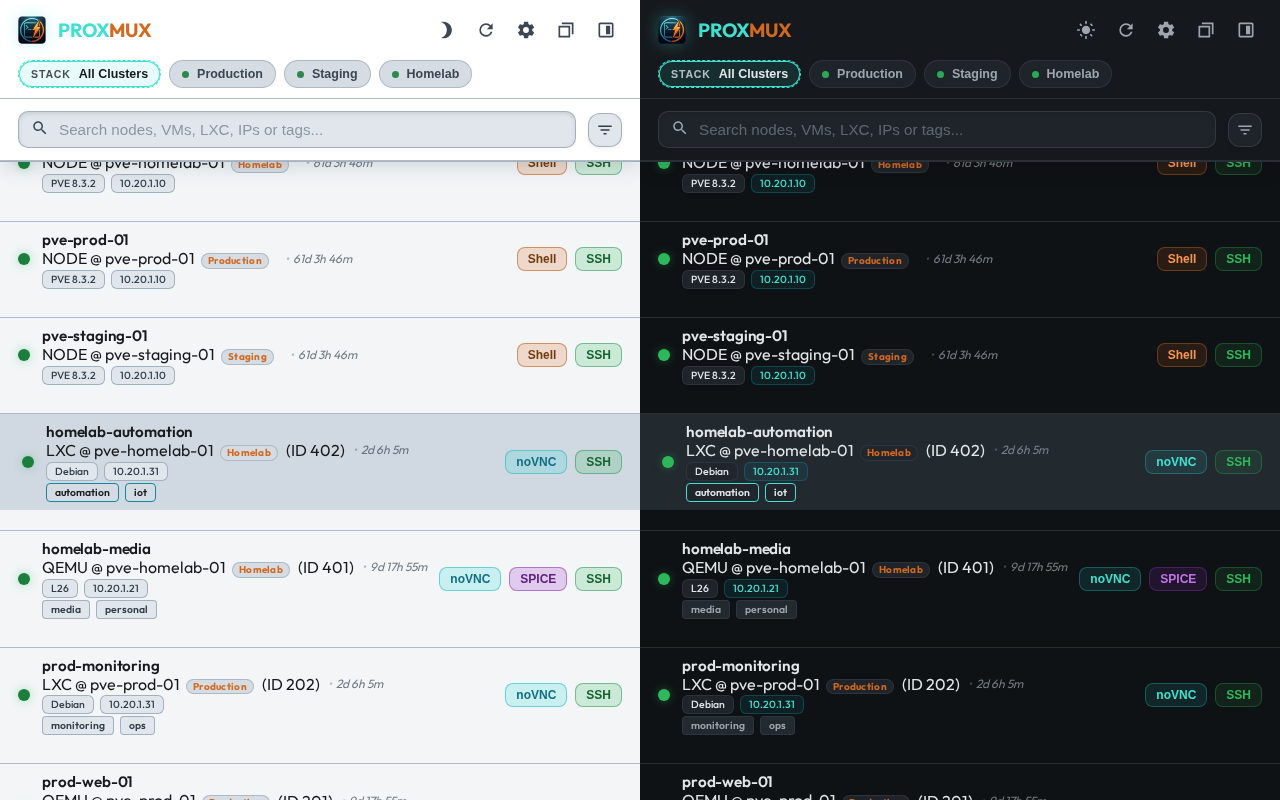
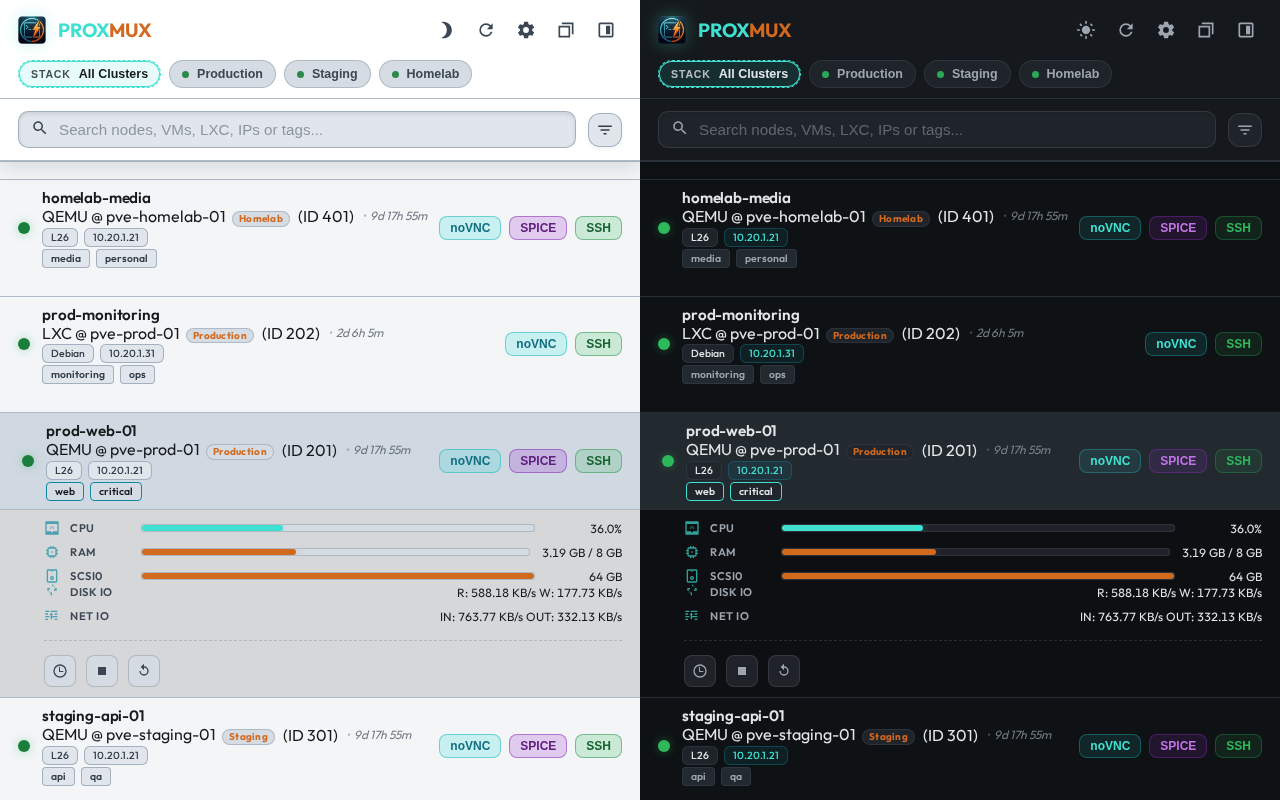
fix: make expanded screenshot scene deterministic (#60)
Ensure the resource-expanded screenshot always captures a visibly expanded VM drawer, add regression coverage for drawer visibility, and set the expanded screenshot as the README primary image.

diff --git a/tests/e2e.spec.js b/tests/e2e.spec.js
@@ -249,6 +249,133 @@ test.describe('PROXMUX Popup (Mock Environment)', () => {
     await expect(page.locator('#cluster-tabs')).toBeVisible();
   });
 
+  test('should expand production VM row and show details drawer', async ({ page }) => {
+    await page.addInitScript(() => {
+      const storage = {
+        theme: 'dark',
+        displaySettings: { uptime: true, ip: true, os: true, vmid: true, tags: true },
+        scriptsPanelCollapsed: true,
+        activeClusterTabId: '__all__',
+        activeClusterId: 'production',
+        clusters: {
+          production: {
+            id: 'production',
+            name: 'Production',
+            proxmoxUrl: 'https://pve-prod-01.lan:8006',
+            apiUser: 'api-admin@pve',
+            apiTokenId: 'full-access',
+            apiSecret: 'prod-secret',
+            apiToken: 'api-admin@pve!full-access=prod-secret',
+            failoverUrls: [],
+            isEnabled: true
+          }
+        },
+        communityScriptsCatalogCacheV1: {
+          source: 'fixture',
+          updatedAt: Date.now(),
+          schemaVersion: 2,
+          scripts: []
+        }
+      };
+
+      const resolveGet = (keys) => {
+        if (!keys) return { ...storage };
+        if (Array.isArray(keys)) return keys.reduce((acc, key) => ({ ...acc, [key]: storage[key] }), {});
+        if (typeof keys === 'string') return { [keys]: storage[keys] };
+        return Object.keys(keys).reduce((acc, key) => ({ ...acc, [key]: storage[key] ?? keys[key] }), {});
+      };
+
+      const chromeMock = {
+        runtime: { lastError: null, getURL: (relative = '') => `${window.location.origin}/${relative.replace(/^\/+/, '')}` },
+        i18n: { getMessage: () => '' },
+        storage: {
+          local: {
+            get: async (keys) => resolveGet(keys),
+            set: async (values) => Object.assign(storage, values || {}),
+            remove: async (keys) => {
+              const list = Array.isArray(keys) ? keys : [keys];
+              list.forEach((key) => delete storage[key]);
+            }
+          }
+        },
+        permissions: {
+          contains: (_permissions, cb) => cb(true),
+          request: (_permissions, cb) => cb(true)
+        },
+        windows: {
+          getCurrent: async () => ({ id: 1, type: 'normal' }),
+          get: async (id) => ({ id, type: 'normal', tabs: [] }),
+          update: async (id, info) => ({ id, ...info }),
+          create: async () => ({ id: 2, type: 'popup' })
+        },
+        sidePanel: { open: async () => {} },
+        tabs: {
+          create: async () => ({ id: 10 }),
+          update: async () => ({ id: 10 }),
+          query: async () => [],
+          get: async () => ({ id: 10, status: 'complete' }),
+          onUpdated: { addListener: () => {}, removeListener: () => {} }
+        },
+        scripting: { executeScript: async () => [{ result: true }] },
+        downloads: {
+          download: (_options, cb) => cb?.(1),
+          open: async () => {},
+          onChanged: { addListener: () => {}, removeListener: () => {} }
+        },
+        cookies: { get: async () => null }
+      };
+
+      const realFetch = window.fetch.bind(window);
+      window.fetch = async (input, init = {}) => {
+        const requestUrl = typeof input === 'string' ? input : input?.url;
+        if (!requestUrl) return realFetch(input, init);
+        if (requestUrl.includes('/api2/json/cluster/resources')) {
+          return new Response(JSON.stringify({
+            data: [
+              { type: 'node', node: 'pve-prod-01', status: 'online', cpu: 0.12, mem: 1, maxmem: 2, disk: 1, maxdisk: 2 },
+              {
+                type: 'qemu',
+                vmid: 201,
+                name: 'prod-web-01',
+                node: 'pve-prod-01',
+                status: 'running',
+                uptime: 842100,
+                cpu: 0.2,
+                mem: 1,
+                maxmem: 2,
+                disk: 1,
+                maxdisk: 2
+              }
+            ]
+          }), { status: 200, headers: { 'content-type': 'application/json' } });
+        }
+        if (requestUrl.includes('/api2/json/')) {
+          return new Response(JSON.stringify({ data: {} }), { status: 200, headers: { 'content-type': 'application/json' } });
+        }
+        if (requestUrl.includes('api.github.com/repos/community-scripts/ProxmoxVE/git/trees/main')) {
+          return new Response(JSON.stringify({ tree: [] }), { status: 200, headers: { 'content-type': 'application/json' } });
+        }
+        return realFetch(input, init);
+      };
+
+      window.chrome = chromeMock;
+      globalThis.chrome = chromeMock;
+    });
+
+    await page.goto(`${staticBaseUrl}/popup/popup.html`);
+
+    const targetItem = page.locator('[data-id="vm-production-201"]');
+    const targetMain = targetItem.locator('.item-main');
+    const detailsDrawer = targetItem.locator('.details-drawer');
+
+    await expect(targetMain).toBeVisible();
+    await targetMain.click();
+    await expect(targetItem).toHaveClass(/expanded/);
+    await expect(detailsDrawer).toBeVisible();
+    const drawerHeight = await detailsDrawer.evaluate((el) => el.getBoundingClientRect().height);
+    expect(drawerHeight).toBeGreaterThan(24);
+  });
+
   test('should show resource items from mock data', async ({ page }) => {
     const items = page.locator('.resource-item');
     const count = await items.count();

diff --git a/store/generate_screenshots_ci.js b/store/generate_screenshots_ci.js
@@ -537,12 +537,32 @@ async function applySceneState(page, sceneId) {
   }
 
   if (sceneId === 'resource_expanded') {
-    await page.waitForSelector('[data-id="vm-production-201"] .item-main');
-    await page.click('[data-id="vm-production-201"] .item-main');
-    await page.waitForSelector('[data-id="vm-production-201"].expanded');
+    const targetItemSelector = '[data-id="vm-production-201"]';
+    const targetMainSelector = `${targetItemSelector} .item-main`;
+    await page.waitForSelector(targetMainSelector, { state: 'visible' });
+    await page.waitForFunction((selector) => {
+      const list = document.getElementById('resource-list');
+      const items = Array.from((list || document).querySelectorAll('.resource-item'));
+      return items.length >= 3 && items.some((item) => item.matches(selector));
+    }, targetItemSelector);
+    await page.evaluate((selector) => {
+      const target = document.querySelector(selector);
+      target?.scrollIntoView({ block: 'center', inline: 'nearest' });
+    }, targetItemSelector);
+    await page.click(targetMainSelector);
+    await page.waitForSelector(`${targetItemSelector}.expanded`);
+    await page.waitForFunction((selector) => {
+      const item = document.querySelector(selector);
+      if (!item || !item.classList.contains('expanded')) return false;
+      const drawer = item.querySelector('.details-drawer');
+      if (!drawer) return false;
+      const styles = window.getComputedStyle(drawer);
+      const rect = drawer.getBoundingClientRect();
+      return styles.visibility !== 'hidden' && Number(styles.opacity) > 0.95 && rect.height > 24;
+    }, targetItemSelector);
     await page.evaluate(() => {
       const list = document.getElementById('main-view-content');
-      if (list) list.scrollTop = 36;
+      if (list) list.scrollTop = Math.max(list.scrollTop - 20, 0);
       const scripts = document.querySelector('.scripts-panel');
       scripts?.classList.add('hidden');
     });

diff --git a/README.md b/README.md
@@ -29,12 +29,12 @@ A dedicated Chrome Extension for Proxmox VE cluster management, providing instan
 
 Primary screenshot:
 
-![Multi Cluster Combined](store/screenshot_01_multi_cluster_1280x800.png)
+![Expanded Resource Combined](store/screenshot_02_resource_expanded_1280x800.png)
 
 Additional screenshots:
 
 <p>
-  <img src="store/screenshot_02_resource_expanded_1280x800.png" alt="Expanded Resource Combined" width="24%">
+  <img src="store/screenshot_01_multi_cluster_1280x800.png" alt="Multi Cluster Combined" width="24%">
   <img src="store/screenshot_03_onboarding_1280x800.png" alt="Onboarding Combined" width="24%">
   <img src="store/screenshot_04_settings_cluster_1280x800.png" alt="Settings Cluster Combined" width="24%">
   <img src="store/screenshot_05_settings_backup_1280x800.png" alt="Settings Backup Combined" width="24%">
